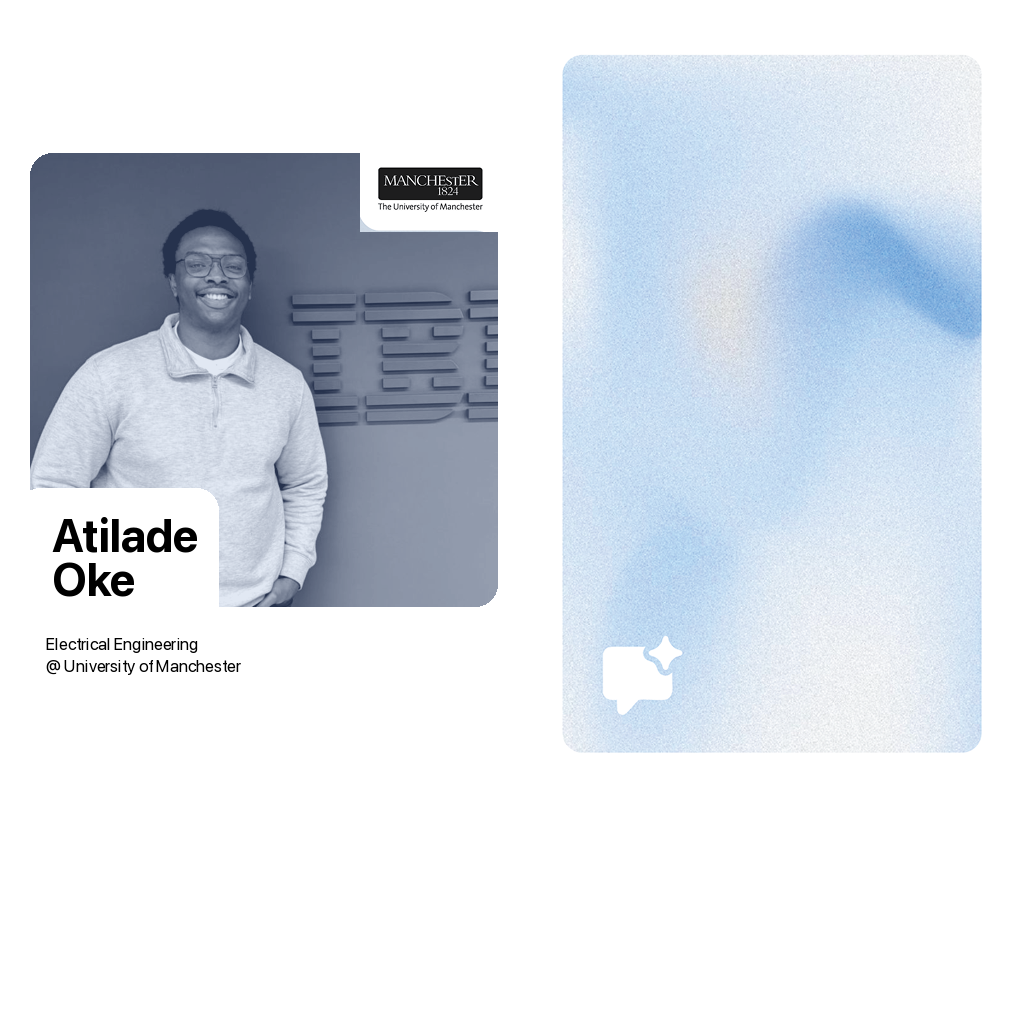
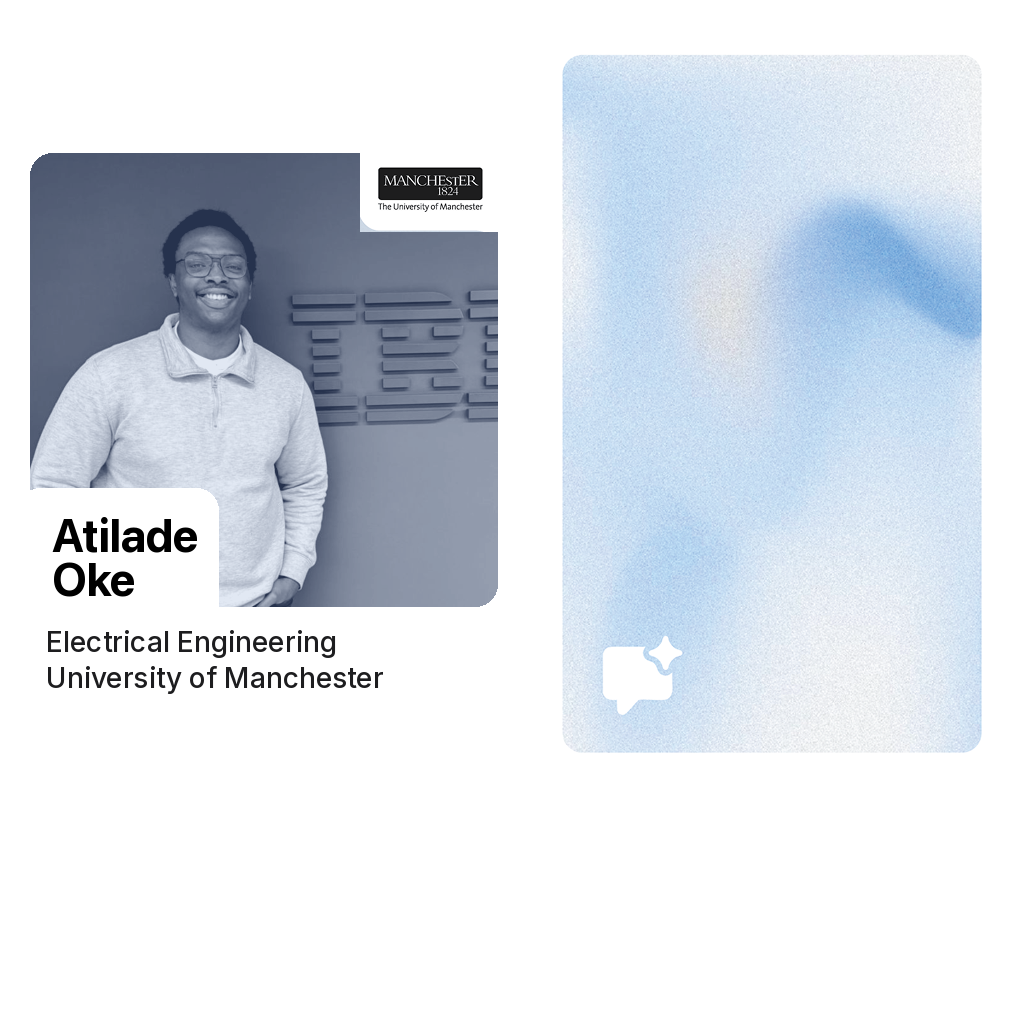
fix(about): larger badge with strap, clip stays front on the flip, readable card caption
Card 400px wide at 1280 and 300px at 390. Only the card turns, so the clip no
longer renders as a black mass from behind. The back face maps 1:1 at each size
and adds the degree. Card caption redrawn at a size that reads at 390. Headline,
lede and actions grouped in one column; career rows drop the outer box; section
headings answer the visitor's question.

Changed region(s): [[0.0312, 0.5938, 0.375, 0.6875]]

diff --git a/src/app/about/page.tsx b/src/app/about/page.tsx
@@ -4,20 +4,21 @@ import React, { useEffect, useState } from "react";
 import dynamic from "next/dynamic";
 import AboutSection from "@/components/AboutSection";
 
-// The back of the badge: real text, laid out at the card's 320x450 px so it maps onto the 3D card.
-const BadgeBack = ({ live }: { live: boolean }) => (
-  <div className="flex h-[450px] w-[320px] flex-col rounded-[22px] bg-white px-7 pb-6 pt-9 text-ink shadow-[inset_0_0_0_1px_rgba(0,0,0,0.06)]">
+// The back of the badge: real text, laid out at the card's on-screen size (1.6:2.25) so it maps 1:1.
+const BadgeBack = ({ live, width }: { live: boolean; width: number }) => (
+  <div style={{ width, height: (width * 2.25) / 1.6 }} className="flex flex-col rounded-[22px] bg-white px-6 pb-6 pt-9 text-ink shadow-[inset_0_0_0_1px_rgba(0,0,0,0.06)]">
     <p className="text-[28px] font-semibold leading-[1.1] tracking-[-0.02em]">Atilade Oke</p>
     <ul className="mt-6 divide-y divide-black/10 border-y border-black/10 text-[17px] leading-snug">
       <li className="py-3">Founder, Refinery</li>
       <li className="py-3">Analyst, Data and AI, ION</li>
       <li className="py-3">12× hackathon winner</li>
-      <li className="py-3">#1 IBM Z Ambassador 2025–26</li>
+      <li className="whitespace-nowrap py-3">#1 IBM Z Ambassador 2025–26</li>
+      <li className="py-3">BEng, Manchester, 2:1</li>
     </ul>
     <a
       href="/Atilade_Oke_CV.pdf"
       tabIndex={live ? -1 : 0}
-      className="pointer-events-auto mt-auto inline-flex min-h-11 items-center self-start text-[17px] font-medium text-link underline decoration-link/30 underline-offset-4 hover:decoration-link"
+      className="pointer-events-auto mt-4 inline-flex min-h-11 items-center self-start text-[17px] font-medium text-link underline decoration-link/30 underline-offset-4 hover:decoration-link"
     >
       Download CV
     </a>
@@ -74,6 +75,10 @@ html{caret-color:#0071e3;scrollbar-color:#c7c7cc transparent}
 @media (prefers-reduced-motion:reduce){*,*::before,*::after{transition:none !important;animation:none !important}}
 `;
 
+// Camera [x, y, z] per layout: framed so the card is 400px wide at 1280 and 300px at 390, under a short run of strap.
+const DESKTOP_CAMERA: [number, number, number] = [0, -0.33, 7.26];
+const MOBILE_CAMERA: [number, number, number] = [0, -0.41, 7.41];
+
 export default function About() {
   const { mode, mobile } = useBadgeMode();
   const [flipped, setFlipped] = useState(false);
@@ -82,70 +87,71 @@ export default function About() {
     <div className="bg-white text-ink">
       <style>{frame}</style>
       <div className="container mx-auto max-w-6xl px-4 sm:px-8">
-        <section className="grid grid-cols-1 lg:grid-cols-[minmax(0,1fr)_480px_minmax(0,1fr)] lg:grid-rows-[1fr_auto] lg:gap-x-8">
-          {/* The badge: the page's figure, centred. A tap, or the button under it, turns it over. */}
-          <div className="relative -mx-4 -mt-2 sm:mx-0 lg:col-start-2 lg:row-span-2 lg:-mt-6">
+        <section className="grid grid-cols-1 lg:grid-cols-[minmax(0,1fr)_440px_minmax(0,1fr)] lg:items-center lg:gap-x-8">
+          {/* The badge: the page's figure, centred. A tap on it, or the button beside it, turns it over. */}
+          <div className="relative -mx-4 -mt-2 sm:mx-0 lg:col-start-2 lg:row-start-1 lg:-mt-6">
             <div
               role="img"
               aria-label="Atilade Oke's lanyard badge: Electrical Engineering, University of Manchester. Drag it to swing it."
-              className="relative h-[430px] lg:h-[499px]"
+              className="relative h-[496px] lg:h-[640px]"
             >
               {mode === "live" ? (
                 <Lanyard
-                  position={mobile ? [0, -0.459, 7.5] : [0, -0.366, 7.58]}
+                  position={mobile ? MOBILE_CAMERA : DESKTOP_CAMERA}
                   gravity={[0, -40, 0]}
                   flipped={flipped}
                   onFlip={flip}
-                  back={<BadgeBack live />}
+                  back={<BadgeBack live width={mobile ? 300 : 400} />}
+                  backWidth={mobile ? 300 : 400}
                 />
               ) : (
                 <>
                   <StillBadge />
                   {/* Reduced motion and no WebGL: the back swaps in at once, over the card's footprint. */}
                   {flipped && (
-                    <div className="absolute left-1/2 top-[60px] w-[260px] -translate-x-1/2 lg:top-[66px] lg:ml-[-3px] lg:w-[299px]">
-                      <div className="origin-top-left scale-[0.8125] lg:scale-[0.934]">
-                        <BadgeBack live={false} />
-                      </div>
+                    <div className="absolute left-1/2 top-[60px] -translate-x-1/2 lg:top-[93px]">
+                      <BadgeBack live={false} width={mobile ? 300 : 400} />
                     </div>
                   )}
                 </>
               )}
             </div>
-            <div className="flex justify-center">
-              <button
-                type="button"
-                onClick={flip}
-                aria-pressed={flipped}
-                className="inline-flex min-h-11 items-center px-3 text-[15px] text-ink-2 underline decoration-black/20 underline-offset-4 hover:text-ink"
-              >
-                {flipped ? "Tap the badge to flip it back" : "Tap the badge to flip it"}
-              </button>
-            </div>
             <p className="sr-only" aria-live="polite">
-              {flipped ? "Back of the badge: Founder, Refinery. Analyst, Data and AI, ION. 12× hackathon winner. #1 IBM Z Ambassador 2025–26." : ""}
+              {flipped ? "Back of the badge: Founder, Refinery. Analyst, Data and AI, ION. 12× hackathon winner. #1 IBM Z Ambassador 2025–26. BEng, Manchester, 2:1." : ""}
             </p>
           </div>
 
-          <h1 className="mt-3 max-w-[16ch] text-[28px] font-semibold leading-[1.1] tracking-[-0.025em] sm:text-[32px] lg:col-start-1 lg:row-start-1 lg:mt-0 lg:self-end">
-            Engineer, founder and hackathon winner in London.
-          </h1>
-          <div className="mt-4 flex flex-wrap items-center gap-x-6 gap-y-3 lg:col-start-3 lg:row-start-1 lg:mt-0 lg:self-end">
-            <a
-              href="/Atilade_Oke_CV.pdf"
-              className="inline-flex min-h-11 items-center rounded-full bg-link px-5 text-[17px] font-medium text-white transition-colors hover:bg-[#0077ed]"
-            >
-              Download CV (PDF)
-            </a>
-            <a href="mailto:okeatilade@gmail.com" className="inline-flex min-h-11 items-center text-[17px] text-ink underline decoration-black/25 underline-offset-4 hover:decoration-ink">
-              Email me
-            </a>
+          <button
+            type="button"
+            onClick={flip}
+            aria-pressed={flipped}
+            className="mx-auto inline-flex min-h-11 items-center px-3 text-[15px] text-ink-2 underline decoration-black/20 underline-offset-4 hover:text-ink lg:col-start-3 lg:row-start-1 lg:mx-0 lg:justify-self-start lg:px-0"
+          >
+            <span className="[@media(pointer:fine)]:hidden">Tap the badge to flip it{flipped ? " back" : ""}</span>
+            <span className="hidden [@media(pointer:fine)]:inline">Click the badge to flip it{flipped ? " back" : ""}</span>
+          </button>
+
+          <div className="flex flex-col lg:col-start-1 lg:row-start-1">
+            <h1 className="mt-1 text-[28px] font-semibold leading-[1.1] tracking-[-0.025em] lg:mt-0">
+              Engineer, founder and hackathon winner in London.
+            </h1>
+            <p className="order-3 mt-4 text-[17px] leading-relaxed text-ink-2 lg:order-none">
+              I&apos;m building{" "}
+              <a href="/projects/refinery" className="font-medium text-ink underline decoration-black/20 underline-offset-4 hover:decoration-ink">Refinery</a>.
+              It proves AI changes to mainframe COBOL are safe to deploy.
+            </p>
+            <div className="order-2 mt-3 flex flex-wrap items-center gap-x-6 gap-y-3 lg:order-none lg:mt-6">
+              <a
+                href="/Atilade_Oke_CV.pdf"
+                className="inline-flex min-h-11 items-center rounded-full bg-link px-5 text-[17px] font-medium text-white transition-colors hover:bg-[#0077ed]"
+              >
+                Download CV (PDF)
+              </a>
+              <a href="mailto:okeatilade@gmail.com" className="inline-flex min-h-11 items-center text-[17px] text-ink underline decoration-black/25 underline-offset-4 hover:decoration-ink">
+                Email me
+              </a>
+            </div>
           </div>
-          <p className="mt-4 max-w-[40ch] text-[17px] leading-relaxed text-ink-2 lg:col-start-1 lg:row-start-2 lg:mt-4 lg:self-start">
-            I&apos;m building{" "}
-            <a href="/projects/refinery" className="font-medium text-ink underline decoration-black/20 underline-offset-4 hover:decoration-ink">Refinery</a>.
-            It proves AI changes to mainframe COBOL are safe to deploy.
-          </p>
         </section>
         <AboutSection />
       </div>

diff --git a/src/components/Lanyard.tsx b/src/components/Lanyard.tsx
@@ -36,8 +36,9 @@ interface LanyardProps {
   flipped?: boolean;
   /** Called on a tap on the card, or a drag released while spinning. */
   onFlip?: () => void;
-  /** Real DOM for the back face, laid out at 320x450 px (the card is 1.6 x 2.25 units). */
+  /** Real DOM for the back face, laid out at backWidth px wide (the card is 1.6 x 2.25 units). */
   back?: ReactNode;
+  backWidth?: number;
 }
 
 export default function Lanyard({
@@ -48,6 +49,7 @@ export default function Lanyard({
   flipped = false,
   onFlip,
   back,
+  backWidth = 320,
 }: LanyardProps) {
   const [isMobile, setIsMobile] = useState<boolean>(
     () => typeof window !== "undefined" && window.innerWidth < 768
@@ -72,7 +74,7 @@ export default function Lanyard({
         <Suspense fallback={null}>
           <ambientLight intensity={Math.PI} />
           <Physics gravity={gravity} timeStep={isMobile ? 1 / 30 : 1 / 60}>
-            <Band isMobile={isMobile} flipped={flipped} onFlip={onFlip} back={back} />
+            <Band isMobile={isMobile} flipped={flipped} onFlip={onFlip} back={back} backWidth={backWidth} />
           </Physics>
           <Environment blur={0.75}>
             <Lightformer
@@ -117,9 +119,10 @@ interface BandProps {
   flipped?: boolean;
   onFlip?: () => void;
   back?: ReactNode;
+  backWidth?: number;
 }
 
-function Band({ maxSpeed = 50, minSpeed = 0, isMobile = false, flipped = false, onFlip, back }: BandProps) {
+function Band({ maxSpeed = 50, minSpeed = 0, isMobile = false, flipped = false, onFlip, back, backWidth = 320 }: BandProps) {
   const turn = useRef<THREE.Group>(null);
   const backFace = useRef<HTMLDivElement>(null);
   const press = useRef<{ x: number; y: number } | null>(null);
@@ -275,7 +278,6 @@ function Band({ maxSpeed = 50, minSpeed = 0, isMobile = false, flipped = false, 
           }
         >
           <CuboidCollider args={[0.8, 1.125, 0.01]} />
-          <group ref={turn}>
           <group
             scale={2.25}
             position={[0, -1.2, -0.05]}
@@ -302,6 +304,8 @@ function Band({ maxSpeed = 50, minSpeed = 0, isMobile = false, flipped = false, 
               );
             }}
           >
+            {/* Only the card turns: the clip and clamp seen from behind render as a black mass. */}
+            <group ref={turn}>
             <mesh geometry={nodes.card.geometry}>
               <meshPhysicalMaterial
                 map={cardFront}
@@ -312,26 +316,27 @@ function Band({ maxSpeed = 50, minSpeed = 0, isMobile = false, flipped = false, 
                 metalness={0.8}
               />
             </mesh>
+            {back && (
+              // Model space: the card's centre is (0, 1.2/2.25, 0.05/2.25); 1.6/2.25 model units wide.
+              <Html
+                ref={backFace}
+                transform
+                distanceFactor={((1.6 / 2.25) * 400) / backWidth}
+                position={[0, 0.533, 0.013]}
+                rotation={[0, Math.PI, 0]}
+                zIndexRange={[1, 0]}
+                style={{ visibility: "hidden", pointerEvents: "none" }}
+              >
+                {back}
+              </Html>
+            )}
+            </group>
             <mesh
               geometry={nodes.clip.geometry}
               material={materials.metal}
               material-roughness={0.3}
             />
             <mesh geometry={nodes.clamp.geometry} material={materials.metal} />
-          </group>
-          {back && (
-            <Html
-              ref={backFace}
-              transform
-              distanceFactor={2}
-              position={[0, 0, -0.02]}
-              rotation={[0, Math.PI, 0]}
-              zIndexRange={[1, 0]}
-              style={{ visibility: "hidden", pointerEvents: "none" }}
-            >
-              {back}
-            </Html>
-          )}
           </group>
         </RigidBody>
       </group>

diff --git a/src/components/AboutSection.tsx b/src/components/AboutSection.tsx
@@ -130,10 +130,10 @@ export default function AboutSection() {
         };
   return (
     <div className="pb-24 sm:pb-32">
-      <Section id="steps" title="SAP at 19, ION and Refinery now" caption="Newest first.">
-        <div role="list" className="divide-y divide-black/[0.08] overflow-hidden rounded-[22px] border border-black/[0.08]">
+      <Section id="steps" title="Work and study since 2023" caption="Newest first.">
+        <div role="list" className="divide-y divide-black/[0.08] border-y border-black/[0.08]">
           {steps.map((s, i) => (
-            <motion.div role="listitem" key={s.step} {...reveal(i)} className="grid grid-cols-1 gap-x-6 gap-y-1 p-4 sm:p-6 lg:grid-cols-[minmax(0,1fr)_190px]">
+            <motion.div role="listitem" key={s.step} {...reveal(i)} className="grid grid-cols-1 gap-x-6 gap-y-1 py-5 lg:grid-cols-[minmax(0,1fr)_190px]">
               <div>
                 <h3 className="text-[17px] font-semibold leading-snug">
                   {s.href ? (
@@ -185,7 +185,7 @@ export default function AboutSection() {
 
       <section className="pt-24 sm:pt-32">
         <div className="rounded-[22px] bg-surface px-6 py-10 sm:px-12 sm:py-14">
-          <h2 className="text-[28px] font-semibold leading-tight tracking-[-0.02em] sm:text-[32px]">Always happy to build something together.</h2>
+          <h2 className="text-[28px] font-semibold leading-tight tracking-[-0.02em] sm:text-[32px]">Email is the fastest way to reach me.</h2>
           <p className="mt-2 text-[17px] text-ink-2">okeatilade@gmail.com</p>
           <a href="mailto:okeatilade@gmail.com" className="mt-6 inline-flex min-h-11 items-center rounded-full bg-ink px-5 text-[17px] font-medium text-white transition-colors hover:bg-black">
             Email me
